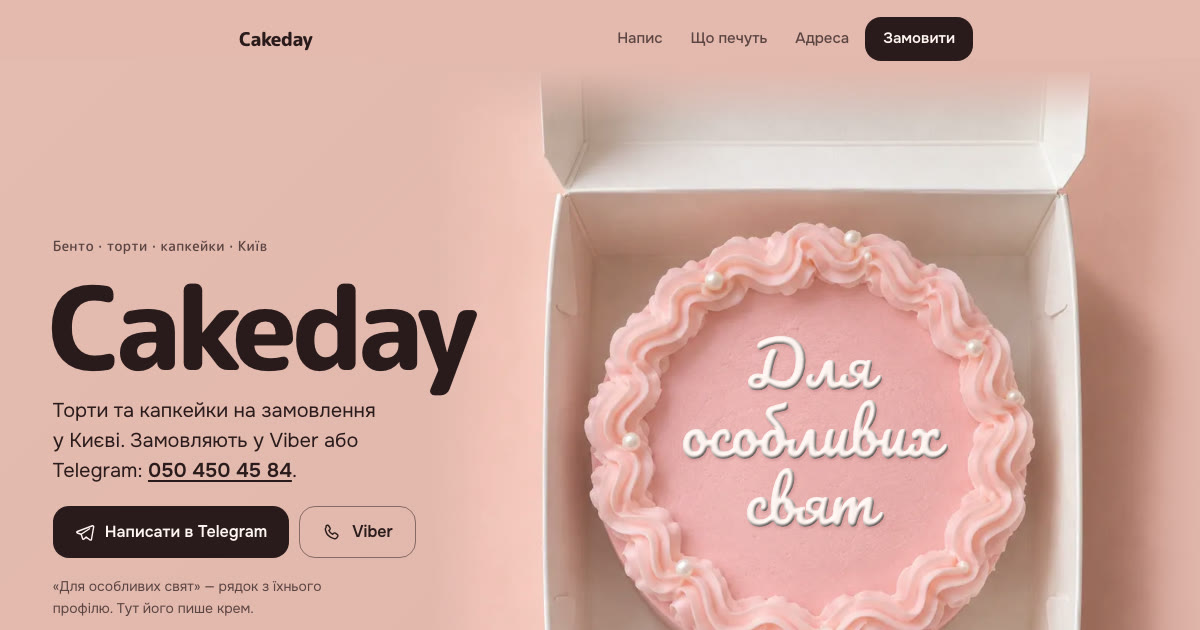
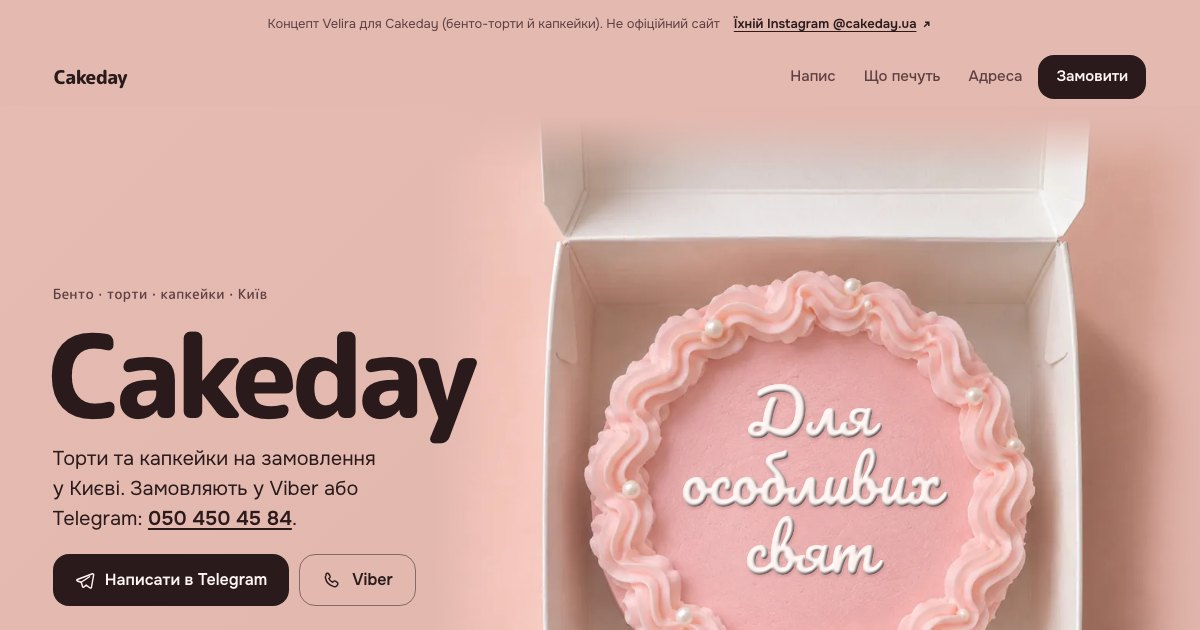
Publish site (Velira Site Engine)

diff --git a/demo/cakeday-bento/assets/css/site.css b/demo/cakeday-bento/assets/css/site.css
@@ -17,7 +17,8 @@
   --display:"Rounded","Onest",system-ui,sans-serif; --text:"Onest",system-ui,-apple-system,sans-serif;
 }
 *,*::before,*::after{box-sizing:border-box}
-html{-webkit-text-size-adjust:100%;scroll-behavior:smooth;scroll-padding-top:84px}
+html{-webkit-text-size-adjust:100%;scroll-behavior:smooth;scroll-padding-top:84px;overflow-x:clip}
+/* запобіжник: html не «visible», тож overflow body не переходить на вікно (де clip стає hidden і дає scrollTo вбік) — body сам обрізає */
 @media (prefers-reduced-motion:reduce){html{scroll-behavior:auto}}
 body{margin:0;background:var(--rose);color:var(--cocoa);font:400 17px/1.55 var(--text);overflow-x:clip;-webkit-font-smoothing:antialiased}
 img{display:block;max-width:100%;height:auto}
@@ -80,7 +81,7 @@ svg{flex:none}
 
 /* перший екран */
 .hero{position:relative;padding:12px var(--pad) 40px;background:linear-gradient(135deg,#e6bcb2 0%,#e2b7ad 55%,#dfb3aa 100%);display:grid;gap:4px}
-.hero-stage{margin:0 calc(var(--pad) * -1);order:-1;position:relative}
+.hero-stage{margin:0 calc(var(--pad) * -1);order:-1;position:relative;overflow-x:clip}
[1 lines of base64/hex data omitted]
   -webkit-mask-image:linear-gradient(to right,transparent 0,#000 7%,#000 93%,transparent 100%),linear-gradient(to bottom,transparent 0,#000 7%,#000 93%,transparent 100%);
   -webkit-mask-composite:source-in;mask-image:linear-gradient(to right,transparent 0,#000 7%,#000 93%,transparent 100%),linear-gradient(to bottom,transparent 0,#000 7%,#000 93%,transparent 100%);mask-composite:intersect}
@@ -110,9 +111,11 @@ svg{flex:none}
 }
 
 /* секція напису */
-.napys{padding:72px var(--pad) 96px;display:grid;gap:36px;align-items:center;background:var(--rose)}
+.napys{overflow-x:clip;padding:72px var(--pad) 96px;display:grid;gap:36px;align-items:center;background:var(--rose)}
 .napys-stage{justify-self:center;width:min(100%,560px)}
-.lens{--r:50%;position:relative;aspect-ratio:1/1;border-radius:50%;clip-path:circle(var(--r) at 50% 50%);background:#eaaeaf;box-shadow:0 30px 70px -40px rgba(90,40,40,.55)}
+/* лінза: фото всередині збільшене scale(2.3) — clip-path обрізає лише малюнок, а не прокручувану площу,
+   тому коло саме обрізає вміст (overflow:hidden), інакше документ розширюється вбік на ~1,7 ширини лінзи */
+.lens{--r:50%;position:relative;aspect-ratio:1/1;border-radius:50%;overflow:hidden;isolation:isolate;clip-path:circle(var(--r) at 50% 50%);background:#eaaeaf;box-shadow:0 30px 70px -40px rgba(90,40,40,.55)}
 .lens-in{position:absolute;inset:0;transform:scale(2.3);transform-origin:49.3% 48.8%}
 .lens-in img,.lens-in .pipe{position:absolute;inset:0;width:100%;height:100%}
 .napys-stage .gen{text-align:center}
@@ -163,7 +166,7 @@ svg{flex:none}
 }
 
 /* замовлення */
-.order{background:var(--blush);padding:0}
+.order{background:var(--blush);padding:0;overflow-x:clip}
 .order-field{background:var(--cocoa);color:var(--cream);padding:88px var(--pad) 96px;display:grid;gap:44px;border-radius:0}
 .order-box{justify-self:center;width:min(100%,460px)}
 @media (max-width:899px){.chat{display:contents}.order-field{gap:22px}.order-field>*{min-width:0}.chat>h2{order:1}.chat>.body{order:2}.thread{order:3}.order-box{order:4;width:min(78%,340px);margin-top:10px}.actions-dark{order:5}.toast{order:6}.actions-dark,.toast{margin-top:0}}
